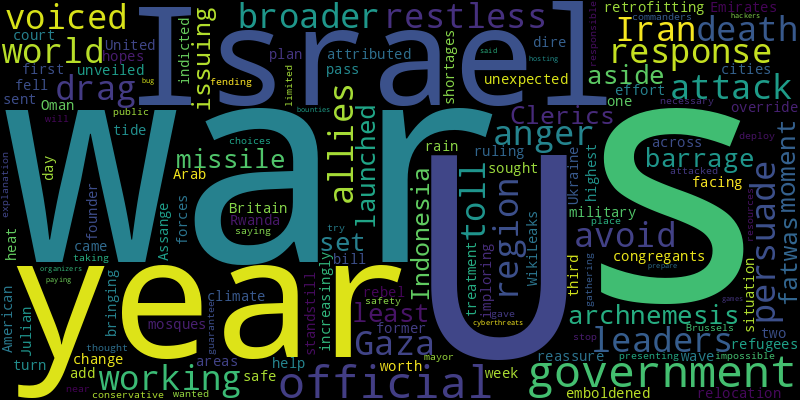
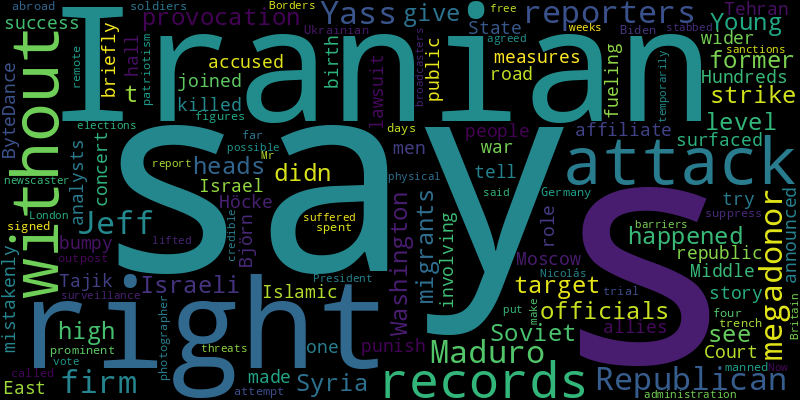
chore(bot): 🐐 auto commit

diff --git a/README.md b/README.md
@@ -2,41 +2,41 @@
 Auto RSS New York Times and Generate Word Cloud
 
 ## New York Times Global News
-* Since an attack by Iran, world leaders have been working to persuade Israel to avoid a response that could drag the region into a broader war.
-* Israel’s restless allies have voiced anger over the death toll in Gaza, but when their archnemesis launched a missile barrage, they set it aside. At least for the moment.
-* Clerics in Indonesia are issuing fatwas, retrofitting mosques and imploring congregants to help turn the tide against climate change.
-* The unexpected relocation was attributed to a heat wave, and came as the military government is facing increasingly emboldened rebel forces.
-* The U.K. government hopes to pass a bill this week, two years after the plan was first unveiled, in an effort to override a ruling by Britain’s highest court that Rwanda is not safe for refugees.
-* A year’s worth of rain fell in one day in some areas across Oman and the United Arab Emirates, bringing cities to a standstill.
-* American officials sought to reassure the U.K. about Julian Assange’s treatment should the former WikiLeaks founder, who has been indicted by the U.S., be sent there.
-* The shortages add up to a dire situation for Ukraine in the third year of the war, presenting commanders with near impossible choices on how to deploy limited resources.
-* A mayor in Brussels gave no explanation of why he thought it necessary to try to stop a conservative gathering from taking place, other than saying he wanted to “guarantee public safety.”
-* “We will be attacked,” the official responsible for fending off cyberthreats said. To prepare, organizers have been hosting war games and paying “bug bounties” to hackers.
+* Israeli officials say they didn’t see a strike on a high-level Iranian target in Syria as a provocation, and did not give Washington a heads-up about it until right before it happened.
+* Young migrants from the former Soviet republic were accused of an attack on a concert hall in Moscow that killed 145 people.
+* Hundreds of Tajik men have joined an Islamic State affiliate, analysts say.
+* The measures were announced as Israel’s allies try to punish Tehran without fueling a wider Middle East war.
+* Court records, mistakenly made public, tell a story about the birth of ByteDance, its bumpy road to success and the role of the Republican megadonor Jeff Yass’s firm.
+* The records briefly surfaced in a lawsuit involving the Republican megadonor Jeff Yass’s firm.
+* Björn Höcke, one of the most prominent far-right figures in Germany, has called the trial an attempt to suppress patriotism.
+* Our photographer spent four days at a remote Ukrainian trench outpost manned by soldiers who signed up from abroad.
+* The Biden administration had temporarily lifted sanctions after President Nicolás Maduro agreed to make free elections possible. Now Mr. Maduro has put up barriers to a credible vote.
+* Iranian reporters and broadcasters in Britain have suffered physical attacks, threats and surveillance, a report by Reporters Without Borders said, weeks after a newscaster was stabbed in London.
 
 ![Global](./global.png)
 ## New York Times United States News
+* The State Senate introduced a bill to repeal a near-total abortion ban dating back to the Civil War, while the House blocked an effort to do so.
 * Dr. Bob Ross cares for the aging residents of Ortonville, Minn, even as he wonders whether he, and the presidential candidates, are up to all their tasks.
-* The university cited security concerns at the graduation. But the student, who is Muslim, said the school was “succumbing to a campaign of hate meant to silence my voice.”
-* Representative Virginia Foxx is a blunt partisan. But her life in rural North Carolina informs her attacks against these schools, starting with whether Harvard is truly “elite.”
-* The legislative audit found several ways that the heavily scrutinized purchase potentially violated state law. Gov. Sarah Huckabee Sanders criticized the findings.
 * Georgia, Michigan and Nevada have already brought charges against people who posed as electors for Donald Trump, and Arizona and Wisconsin have active investigations.
-* At a time of heightened confusion and legal battles over access to abortion, women are looking to social media for answers.
-* A new analysis of the August inferno on the island of Maui in Hawaii described heroic efforts by firefighters. But it also found many ways the town could have been better prepared.
-* The state has been in turmoil since its Supreme Court upheld a near-total abortion ban dating back to the Civil War.
-* In a speech to union steelworkers in Pittsburgh, the president will announce several new measures meant to raise new barriers against floods of Chinese imports.
-* The Republican speaker’s elaborate strategy for passing a foreign aid package over his party’s objections will require the cooperation of Democrats to pass it — and possibly save his job.
+* A new analysis of the August inferno on the island of Maui in Hawaii describes heroic efforts by firefighters. But it also finds many ways the town could have been better prepared.
+* More than a dozen members of the storied political family will endorse the president in Philadelphia, rejecting one of their own as he worries Democrats with an independent bid.
+* Republicans say the quick dismissal of charges against Alejandro Mayorkas sets a dangerous precedent. Democrats say the mistake would have been to treat the case seriously.
+* Senators are under pressure to reject amendments to a House-passed bill so it can become law before a statute expires Friday night. But the program would continue after any such lapse — with some caveats.
+* Lethal injections of Black people in the United States were botched more than twice as often as those of white people, according to a report from an anti-death-penalty group.
+* A report to the Election Assistance Commission from researchers at Rutgers University found that disabled voters’ turnout lagged non-disabled voters’ by 11 percentage points, down from 17.
+* Activists in the Asian American community are pressuring organizations to re-evaluate their partnerships and to call for a cease-fire.
 
 ![US](./usnews.png)
 ## New York Times Asia News
+* Court records, mistakenly made public, tell a story about the birth of ByteDance, its bumpy road to success and the role of the Republican megadonor Jeff Yass’s firm.
+* To lure visitors, residents of Yoshida, famed for its high-quality steel, are inviting tourists to help produce it.
+* Young migrants from the former Soviet republic were accused of an attack on a concert hall in Moscow that killed 145 people.
+* The records briefly surfaced in a lawsuit involving the Republican megadonor Jeff Yass’s firm.
+* Avatars are addressing voters by name, in whichever of India’s many languages they speak. Experts see potential for misuse in a country already rife with disinformation.
+* Also, a deadly Russian missile strike in Ukraine and “green Islam” in Indonesia.
+* Gen. Timothy Haugh, who is also the head of the U.S. military’s Cyber Command, said Beijing was “sending a pretty clear signal.”
+* Hundreds of earthquakes were detected in the weeks preceding the eruption of the volcano in North Sulawesi province. Hundreds of people were evacuated.
 * The unexpected relocation was attributed to a heat wave, and came as the military government is facing increasingly emboldened rebel forces.
 * In a speech to union steelworkers in Pittsburgh, the president will announce several new measures meant to raise new barriers against floods of Chinese imports.
-* Clerics in Indonesia are issuing fatwas, retrofitting mosques and imploring congregants to help turn the tide against climate change.
-* The election is a giant undertaking that requires millions of poll workers, voting machines and security forces to cover deserts, mountains, forests and megacities.
-* Plus, Australia’s feral cat problem.
-* Chancellor Olaf Scholz tried to promote German business interests while delivering warnings from Europe about trade and geopolitical tensions.
-* China’s big bet on manufacturing helped to counteract its housing slowdown in the first three months of the year, but other countries are worried about a flood of Chinese goods.
-* Also, Israel weighs a response to Iran and Sudan marks a year of war.
-* He brought worldwide attention to a radical yet elemental form of contemporary dance that emerged in the wake of wartime destruction.
-* All but three of the 18 people killed or injured Saturday were women. While the attacker’s motive may never be known, many said the episode spoke to a larger problem.
 
 ![Asian](./asian.png)
